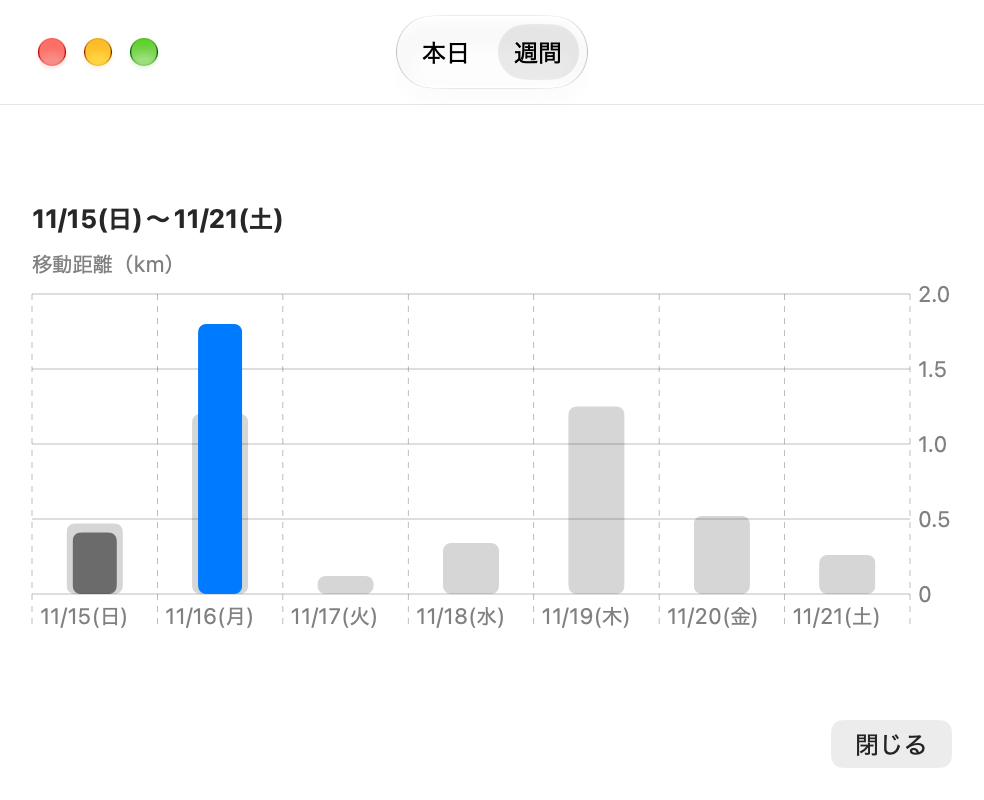
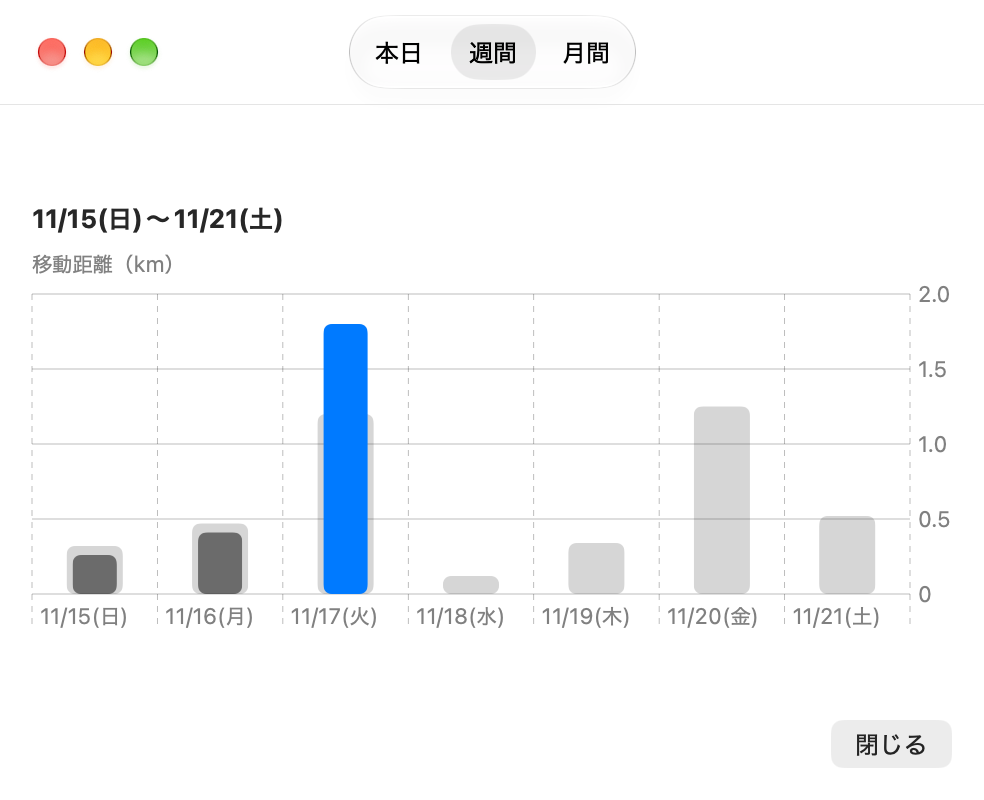
docs: README に月間ヒートマップについて追記

diff --git a/README.md b/README.md
@@ -4,11 +4,11 @@
   <img src="cursor-walk/Assets.xcassets/AppIcon.appiconset/AppIcon-256.png" width="96" alt="CursorWalkのアプリアイコン">
 </p>
 
-カーソルの移動距離を記録するmacOS向けのメニューバーアプリ。本日の累計距離と今週の日別推移、前週との比較を確認できる。
+カーソルの移動距離を記録するmacOS向けのメニューバーアプリ。本日の累計距離、今週と前週の日別推移、月ごとの移動距離を確認できる。
 
-|                                 本日                                 |                                 週間                                  |
-| :------------------------------------------------------------------: | :-------------------------------------------------------------------: |
-| ![CursorWalkの本日の移動距離画面](docs/images/cursor-walk-today.png) | ![CursorWalkの週間の移動距離画面](docs/images/cursor-walk-weekly.png) |
+|                                 本日                                 |                                 週間                                  |                                      月間                                      |
+| :------------------------------------------------------------------: | :-------------------------------------------------------------------: | :----------------------------------------------------------------------------: |
+| ![CursorWalkの本日の移動距離画面](docs/images/cursor-walk-today.png) | ![CursorWalkの週間の移動距離画面](docs/images/cursor-walk-weekly.png) | ![CursorWalkの月間の移動距離ヒートマップ](docs/images/cursor-walk-monthly.png) |
 
 ## 機能
 
@@ -16,7 +16,10 @@
 - 本日の移動距離を cm・m・km で表示し、ポイント数も併記
 - 日曜から土曜までの今週の日別距離を、前週の同じ曜日と重ねた棒グラフで表示
 - グラフにポインタを重ねると日付、距離、先週の距離、先週比を表示
-- 日別の記録を直近30日分ローカルに保存し、次回起動時に復元
+- 月ごとの日別距離を、移動量に応じた濃淡のヒートマップで表示
+- 月間合計を表示し、各日にポインタを重ねると日付と距離を表示
+- 当月から12か月前までの月間ヒートマップを切り替えて確認
+- 日別の記録を直近400日分ローカルに保存し、次回起動時に復元
 
 ## 動作環境
 
@@ -38,6 +41,7 @@
 1. メニューバーのCursorWalkアイコンをクリックする。
 2. 「本日」タブで当日の累計移動距離を確認する。
 3. 「週間」タブで、日曜始まりの今週と前週の日別移動距離を比較する。
+4. 「月間」タブで月ごとの日別移動距離を確認し、左右の矢印で表示月を切り替える。
 
 計測する間はアプリを起動しておく必要がある。
 
@@ -59,7 +63,7 @@
 ~/Library/Application Support/cursor-walk/daily-distances.json
 ```
 
-- 保持する履歴は今日を含む直近30日分である。週間グラフでは今週と前週の記録を曜日ごとに比較して表示する。
+- 保持する履歴は今日を含む直近400日分である。週間グラフでは今週と前週を比較し、月間ヒートマップでは当月から過去12か月分を表示する。
 - 移動が止まってから約1秒後に自動保存する。
 - カーソルの座標履歴は保存しない。外部サーバーへの送信処理もない。
 
